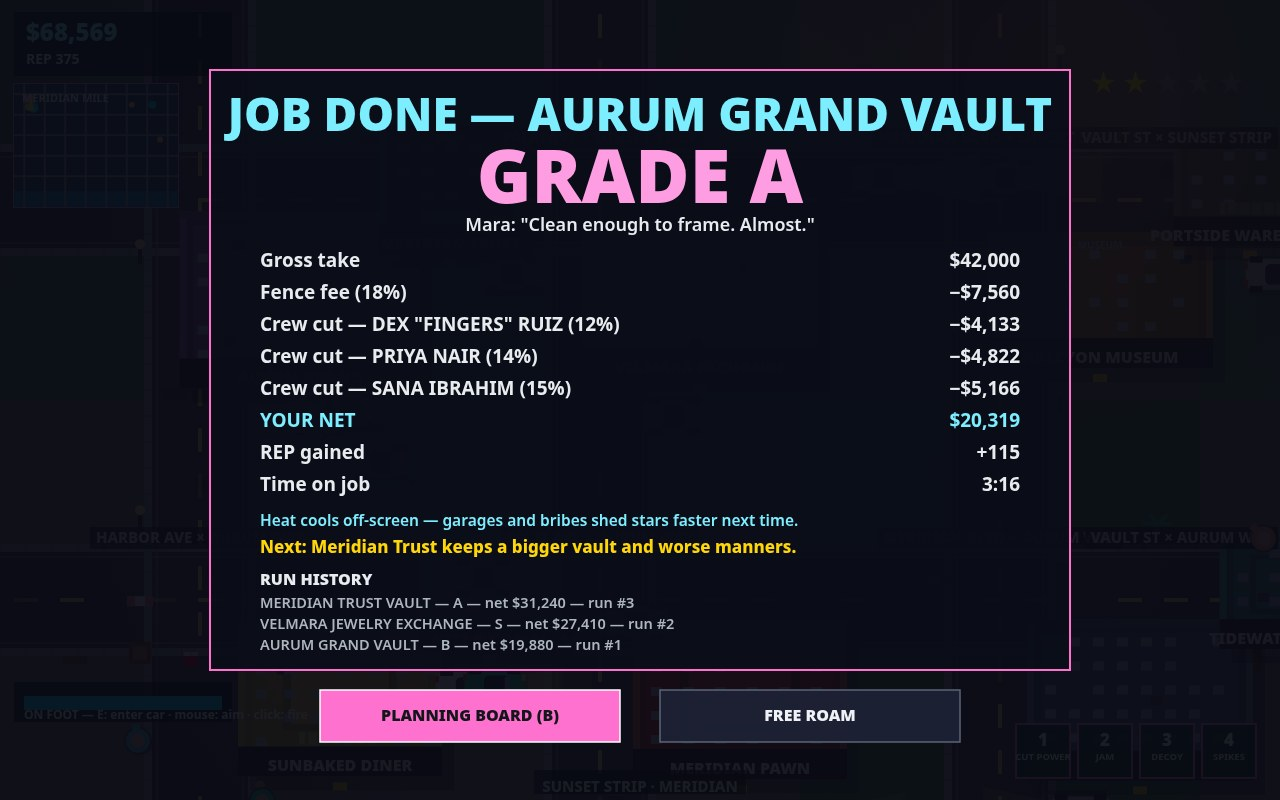
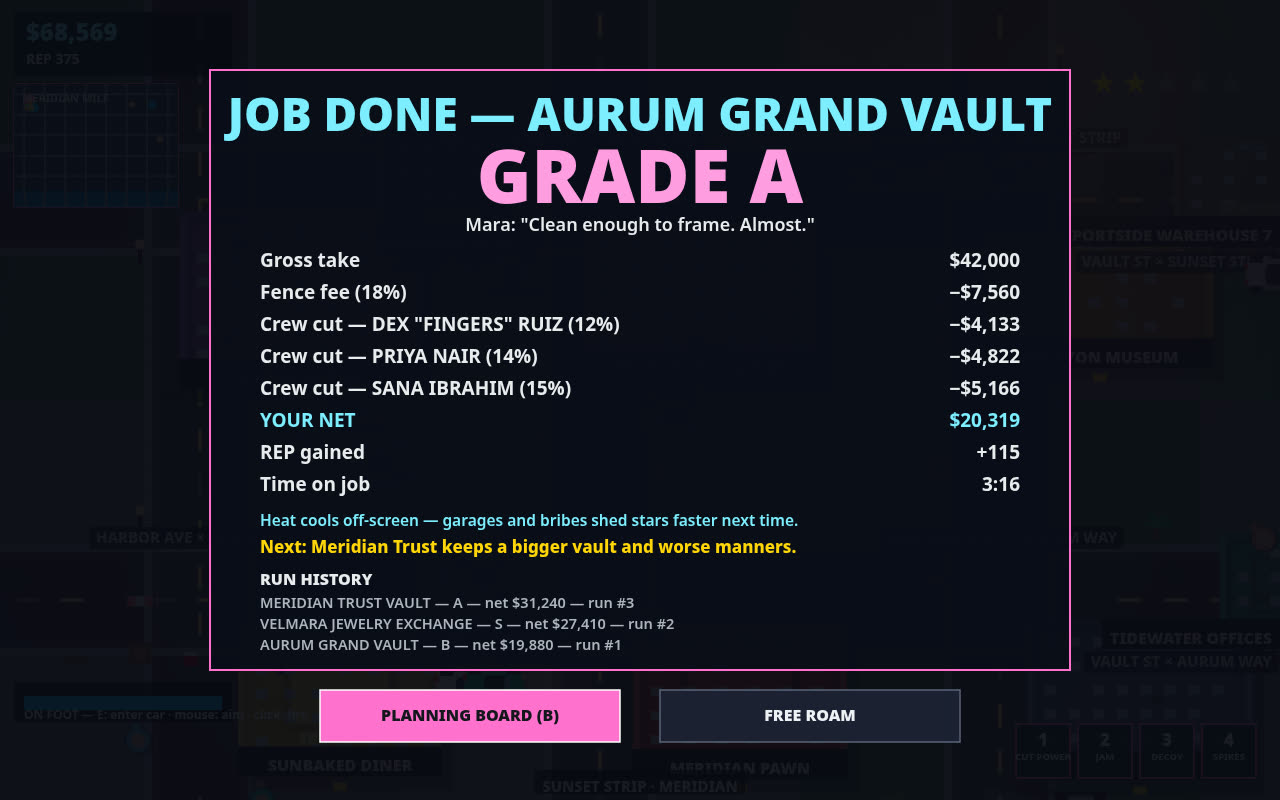
gta6-01 round 9: shot-3 plate legibility — clamp building name plates inside the frame, stagger stacked intersection labels

diff --git a/game/src/render.js b/game/src/render.js
@@ -315,7 +315,15 @@ export function drawWorld(ctx, world, cam) {
     if (!plateCulled) {
       ctx.fillStyle = night ? neon : '#ffffff';
       ctx.font = '900 16px system-ui, sans-serif'; ctx.textAlign = 'center';
-      ctx.fillText(b.name, b.x + b.w / 2, b.y + b.h - 10);
+      const tw = ctx.measureText(b.name).width;
+      const bsx = b.x + b.w / 2 - cam.x;
+      const bcx = Math.max(tw / 2 + 8, Math.min(VIEW_W - tw / 2 - 8, bsx));
+      if (bcx !== bsx) {
+        ctx.fillStyle = '#0a0e16';
+        ctx.fillRect(cam.x + bcx - tw / 2 - 8, b.y + b.h - 30, tw + 16, 30);
+        ctx.fillStyle = night ? neon : '#ffffff';
+      }
+      ctx.fillText(b.name, cam.x + bcx, b.y + b.h - 10);
       ctx.font = '700 10px system-ui, sans-serif'; ctx.fillStyle = '#7deeff';
       ctx.fillText(b.sign, b.x + b.w / 2, b.y + 14);
     }
@@ -327,6 +335,7 @@ export function drawWorld(ctx, world, cam) {
   // clamped fully inside the frame, and culled when HUD chrome would
   // cover them — every street name that appears is fully readable.
   ctx.font = '800 15px system-ui, sans-serif'; ctx.textAlign = 'center'; ctx.textBaseline = 'middle';
+  const labelCandidates = [];
   for (const a of AVENUES) for (const s of STREETS) {
     if (!(a.x > vx - 100 && a.x < vx + vw + 100 && s.y > vy - 60 && s.y < vy + vh + 60)) continue;
     const label = a.name + ' × ' + s.name;
@@ -335,10 +344,32 @@ export function drawWorld(ctx, world, cam) {
     const sy = s.y - ROAD_W / 2 - 14 - cam.y;
     sx = Math.max(tw / 2 + 8, Math.min(VIEW_W - tw / 2 - 8, sx));
     if (labelCulled(sx, sy, tw + 12, 22)) continue;
-    ctx.fillStyle = 'rgba(8,10,18,0.78)';
-    ctx.fillRect(cam.x + sx - tw / 2 - 6, cam.y + sy - 11, tw + 12, 22);
-    ctx.fillStyle = 'rgba(255,255,255,0.92)';
-    ctx.fillText(label, cam.x + sx, cam.y + sy + 1);
+    labelCandidates.push({ label, tw, sx, sy });
+  }
+  const placedRects = [];
+  const yOffsets = [0, ROAD_W + 28, -26, ROAD_W + 54, -52];
+  for (const cand of labelCandidates) {
+    const { label, tw, sx, sy } = cand;
+    let placed = false;
+    for (const off of yOffsets) {
+      const syTry = sy + off;
+      if (!(syTry - 11 >= 4 && syTry + 11 <= VIEW_H - 4)) continue;
+      if (labelCulled(sx, syTry, tw + 12, 22)) continue;
+      const ex = sx - tw / 2 - 6 - 4, ey = syTry - 11 - 4, ew = tw + 12 + 8, eh = 22 + 8;
+      let intersects = false;
+      for (const r of placedRects) {
+        if (ex < r.x + r.w && ex + ew > r.x && ey < r.y + r.h && ey + eh > r.y) { intersects = true; break; }
+      }
+      if (intersects) continue;
+      ctx.fillStyle = 'rgba(8,10,18,0.78)';
+      ctx.fillRect(cam.x + sx - tw / 2 - 6, cam.y + syTry - 11, tw + 12, 22);
+      ctx.fillStyle = 'rgba(255,255,255,0.92)';
+      ctx.fillText(label, cam.x + sx, cam.y + syTry + 1);
+      placedRects.push({ x: sx - tw / 2 - 6, y: syTry - 11, w: tw + 12, h: 22 });
+      placed = true;
+      break;
+    }
+    if (!placed) continue;
   }
   ctx.textBaseline = 'alphabetic';
   // Garages / bribes / spikes / roadblock markers.
